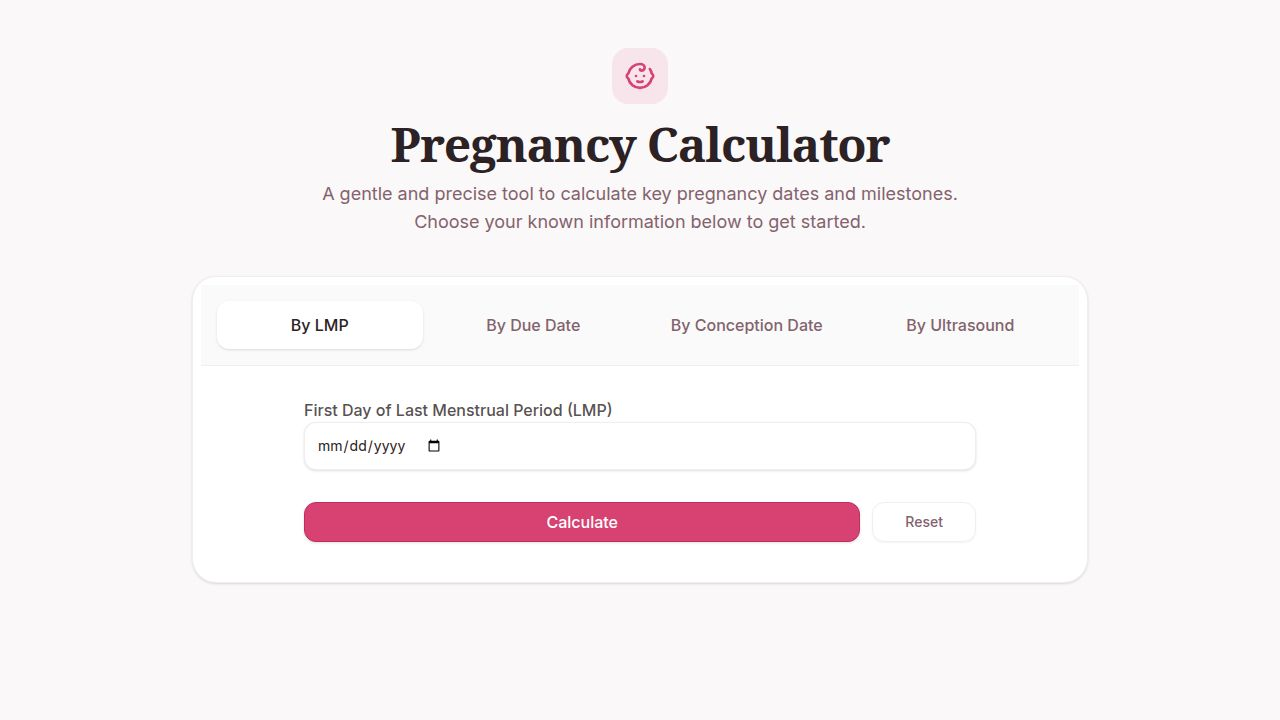
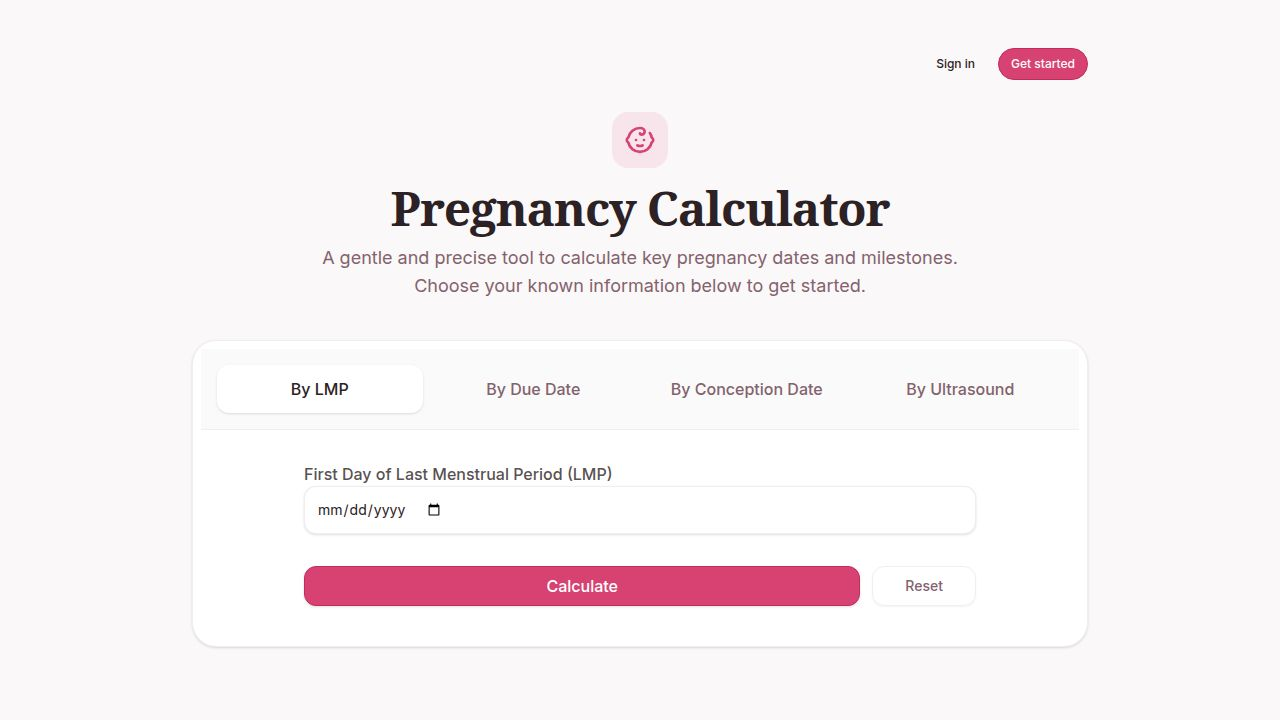
Add automated e2e test for pass purchase + AI free-limit gating
Task #3: protect the revenue-critical purchase + gating path with an
automated end-to-end test (previously only verified manually).

What was done:
- Ran the testing skill (Playwright + Clerk auth override + [DB] seeding +
  Stripe test mode) covering all three "done looks like" scenarios:
  1. Signed-in free user at the weekly limit gets 403 FREE_LIMIT_REACHED and
     the limit-reached upgrade prompt (no answer produced).
  2. Buying the Full Pregnancy Pass via Stripe test checkout grants unlimited
     AI access — pass holder gets a real answer even with usage seeded at the
     limit (metering bypassed).
  3. Pass persists across sign-out / sign-in (tied to the Clerk account, not
     the device).
  Both test runs passed.
- Persisted the plans + setup as a re-runnable spec:
  artifacts/api-server/tests/pass-and-gating.e2e.md (testing-skill plans; there
  is no in-process harness for Anthropic + Stripe + Clerk).

Deviations / notes:
- The free-limit scenario uses a signed-in free user (not anonymous) and seeds
  ai_usage via [DB] to count=5 so the 403 returns before any paid Anthropic
  call. Anonymous IP-based gating is not deterministically seedable behind the
  proxy and is proposed as a follow-up.
- The 403 gating sits behind the isAnthropicConfigured() 503 check, so the path
  requires Anthropic configured (it is).
- button-unlock-pass disables briefly while the checkout session is created
  (checkout.isPending) before redirecting to Stripe — expected, not a bug.
[…]

diff --git a/artifacts/api-server/tests/pass-and-gating.e2e.md b/artifacts/api-server/tests/pass-and-gating.e2e.md
@@ -1,0 +1,106 @@
+# E2E test: Full Pregnancy Pass purchase + free-limit gating
+
+Revenue-critical path. These are **testing-skill** plans (Playwright + Clerk auth
+override + `[DB]` steps), not a shell test runner. Re-run them with the `testing`
+skill: call `runTest({ testPlan, relevantTechnicalDocumentation, testClerkAuth: true })`
+for each plan below.
+
+## Why no `pnpm test` runner
+
+The AI endpoints (`/api/ai/ask`) call Anthropic, and the purchase flow uses Stripe
+Checkout + Clerk sessions. There is no in-process test harness for that. The
+testing skill drives a real browser, signs in real Clerk users programmatically,
+seeds the DB, and runs a real Stripe **test-mode** checkout — which is the only way
+to exercise this path end to end.
+
+## Prerequisites (must hold for the plans to pass)
+
+- Workflows running: `artifacts/api-server: API Server` and `artifacts/pregnancy-calculator: web`.
+- Anthropic configured (`AI_INTEGRATIONS_ANTHROPIC_*`). The gating 403 lives **behind**
+  the `isAnthropicConfigured()` 503 check in `src/routes/ai/index.ts`, so the 403 path
+  is only reachable when Anthropic is configured.
+- Stripe connected and synced: a product with metadata `kind = full_pregnancy_pass`
+  and an active price must exist in the synced `stripe.*` schema (`findPassPriceId`
+  returns 503 otherwise). Verify:
+  ```sql
+  SELECT pr.id, pr.unit_amount FROM stripe.prices pr
+  JOIN stripe.products p ON pr.product = p.id
+  WHERE p.metadata->>'kind' = 'full_pregnancy_pass' AND p.active AND pr.active;
+  ```
+
+## Shared technical context (pass as `relevantTechnicalDocumentation`)
+
+- Web app base path `/`; API proxied at `/api`.
+- Reach the AI assistant by running a calculation first: "By LMP" tab
+  (`tab-lmp`, default), set `input-lmp-date` to a date ~20 weeks before today
+  (e.g. `2026-01-13`), click `button-calculate-lmp`. Results render the
+  `ai-assistant-section`.
+- Account bar testids: signed-out → `button-sign-in` / `button-sign-up`;
+  signed-in no pass → `badge-free-remaining` + `button-unlock-pass` + Clerk
+  UserButton avatar; signed-in with pass → `badge-pass-active` ("Full Pass").
+- Sign out: click the Clerk UserButton avatar, then "Sign out".
+- AI assistant: `input-question`, `button-send`; replies render as
+  `message-assistant`. On the weekly limit the server returns
+  `403 {code:"FREE_LIMIT_REACHED"}` and the UI swaps the input for
+  `limit-reached-prompt` (with inline `button-unlock-pass-inline`); the optimistic
+  user turn is rolled back.
+- Metering: free users get 5 AI questions per ISO week; pass holders are unlimited
+  (metering fully bypassed). Table `ai_usage(identifier, period_key, count, updated_at)`,
+  PK `(identifier, period_key)`. Signed-in identifier is `'user:'||<clerk_user_id>`;
+  `clerk_user_id` is `users.id` (joined by email). The current `period_key` equals
+  Postgres `to_char((now() at time zone 'utc'), 'IYYY"-W"IW')` (e.g. `2026-W23`).
+- The `users` row is created automatically once signed-in and pass status loads;
+  wait for `badge-free-remaining` or `badge-pass-active` before any `[DB]` step.
+- Stripe **test** card: `4242 4242 4242 4242`, exp `12/34`, CVC `123`, ZIP `10001`.
+
+### Seed a user to the free limit (used by the plans)
+
+```sql
+INSERT INTO ai_usage (identifier, period_key, count, updated_at)
+VALUES ('user:'||(SELECT id FROM users WHERE email='${email}'),
+        to_char((now() at time zone 'utc'), 'IYYY"-W"IW'), 5, now())
+ON CONFLICT (identifier, period_key) DO UPDATE SET count = 5, updated_at = now();
+```
+
+## Plan 1 — free user hits the weekly limit (403 FREE_LIMIT_REACHED)
+
+1. `[New Context]`.
+2. `[Clerk Auth]` Sign in as a fresh `free_<nanoid>@example.com`; note the email.
+3. `[Browser]` Navigate to `/`.
+4. `[Verify]` Account bar shows `badge-free-remaining` + `button-unlock-pass`
+   (no `badge-pass-active`).
+5. `[DB]` Seed `ai_usage` to 5 for this user (query above).
+6. `[DB]` Confirm `count = 5` for `user:<id>` / current period.
+7. `[Browser]` Calculate (LMP `2026-01-13`); wait for `ai-assistant-section`.
+8. `[Browser]` Ask "What foods should I avoid?" via `input-question` + `button-send`.
+9. `[Verify]` `limit-reached-prompt` appears with `button-unlock-pass-inline`; no
+   assistant answer was produced (request blocked, not answered).
+
+## Plan 2 — buy the pass → unlimited (bypasses metering) → persists across sign-out/in
+
+1. `[New Context]`.
+2. `[Clerk Auth]` Sign in as a fresh `buyer_<nanoid>@example.com`; note the email.
+3. `[Browser]` Navigate to `/`; verify non-pass state (`button-unlock-pass`).
+4. `[Browser]` Click `button-unlock-pass` ONCE. The button disables for a few
+   seconds while the checkout session is created — this is **expected**. Wait up to
+   ~25s for navigation to `checkout.stripe.com`; do not click again.
+5. `[Browser]` Complete Stripe test checkout with the test card above.
+6. `[Verify]` Redirect back to `/` (`checkout=success`), then `badge-pass-active`
+   ("Full Pass") appears; `button-unlock-pass` is gone (refresh if needed).
+7. `[DB]` Seed `ai_usage` to 5 for this buyer (over the free limit).
+8. `[DB]` Confirm `SELECT has_pass FROM users WHERE email='<buyer>'` is `true`.
+9. `[Browser]` Calculate, then ask a question.
+10. `[Verify]` A `message-assistant` reply appears and **no** `limit-reached-prompt`
+    — unlimited despite usage at the limit (metering bypassed).
+11. `[Browser]` Sign out via the UserButton; verify `button-sign-in`.
+12. `[Clerk Auth]` Sign in again as the SAME buyer email (fresh session = new device).
+13. `[Browser]` Navigate to `/`; `[Verify]` `badge-pass-active` is shown again — the
+    pass is tied to the Clerk account, not the device.
+
+## Notes / gotchas
+
+- `button-unlock-pass` is `disabled` only while `checkout.isPending`; right after the
+  click it is briefly disabled before redirecting to Stripe — not a bug.
+- Seeding `ai_usage` (instead of making 5 real AI calls) keeps Plan 1 fast/cheap and
+  avoids paid Anthropic usage; the 403 returns before any model call.
+- Tests share the dev DB; always use unique `nanoid` emails.

diff --git a/.agents/memory/pass-gating-e2e-testing.md b/.agents/memory/pass-gating-e2e-testing.md
@@ -1,0 +1,34 @@
+---
+name: Pass purchase + AI free-limit e2e testing
+description: How to e2e-test the Full Pregnancy Pass purchase and AI free-weekly-limit gating without burning paid AI calls.
+---
+
+# Testing the pass/gating revenue path
+
+Persisted plans live in `artifacts/api-server/tests/pass-and-gating.e2e.md`. They are
+**testing-skill** plans (Playwright + `testClerkAuth: true` + `[DB]` steps), not a
+shell test runner — there is no in-process harness for Anthropic + Stripe + Clerk.
+
+**Rule:** the AI free-limit 403 (`FREE_LIMIT_REACHED`) check sits **behind** the
+`isAnthropicConfigured()` 503 guard in the `/ai/ask` route. So the 403 path is only
+reachable when Anthropic is configured; if it is not, you get 503 and never reach gating.
+
+**How to apply:**
+- To hit the limit cheaply, seed `ai_usage` count to the limit via a `[DB]` step
+  instead of making real AI calls — the 403 returns before any model call, so no paid
+  Anthropic usage. The current `period_key` is `to_char((now() at time zone 'utc'),
+  'IYYY"-W"IW')`, which matches `currentPeriodKey()`'s `${ISO-year}-W${ISO-week}` format.
+- Signed-in metering identifier is `'user:'||users.id` (the Clerk user id); join the
+  `users` row by email. The row is created lazily once signed-in and pass status loads,
+  so wait for the account bar before any `[DB]` step.
+- Pass holders bypass metering entirely: seed usage over the limit, then a pass holder
+  still gets an answer (assert a reply + absence of `limit-reached-prompt`).
+- Persistence: `has_pass` is keyed to the Clerk user id, so signing back in as the same
+  email (a fresh browser context = "new device") still shows the pass.
+- Stripe checkout test mode works in the testing browser (card `4242 4242 4242 4242`).
+  The `button-unlock-pass` is `disabled` only while the checkout session is being
+  created (`checkout.isPending`) — it briefly disables right after the click before
+  redirecting to `checkout.stripe.com`. That transient disable is **not** a bug; the
+  test must click once and wait ~25s for the redirect rather than re-clicking.
+- Combine purchase + sign-out/sign-in into one run; running this plan in parallel with
+  another browser test can exceed the code-execution 10-min cap — run plans serially.

diff --git a/.agents/memory/MEMORY.md b/.agents/memory/MEMORY.md
@@ -1,3 +1,4 @@
 - [AI integration + mobile API base URL](ai-integration-and-mobile-api.md) — copied Anthropic client throws at import (crashes whole API) → make lazy; Expo native needs setBaseUrl(https://EXPO_PUBLIC_DOMAIN).
 - [Stripe connector credential fields](stripe-connector-fields.md) — connection settings use `secret`/`publishable`, NOT `secret_key`/`webhook_secret` (stripe SKILL template is wrong); deps go in artifact, not root.
 - [Replit XFF client IP convention](replit-xff-convention.md) — leftmost X-Forwarded-For is the real client IP behind Replit proxy; don't rewrite to rightmost.
+- [Pass purchase + AI free-limit e2e testing](pass-gating-e2e-testing.md) — gating 403 sits behind isAnthropicConfigured 503; seed ai_usage via DB to test limits cheaply; Stripe test card works.